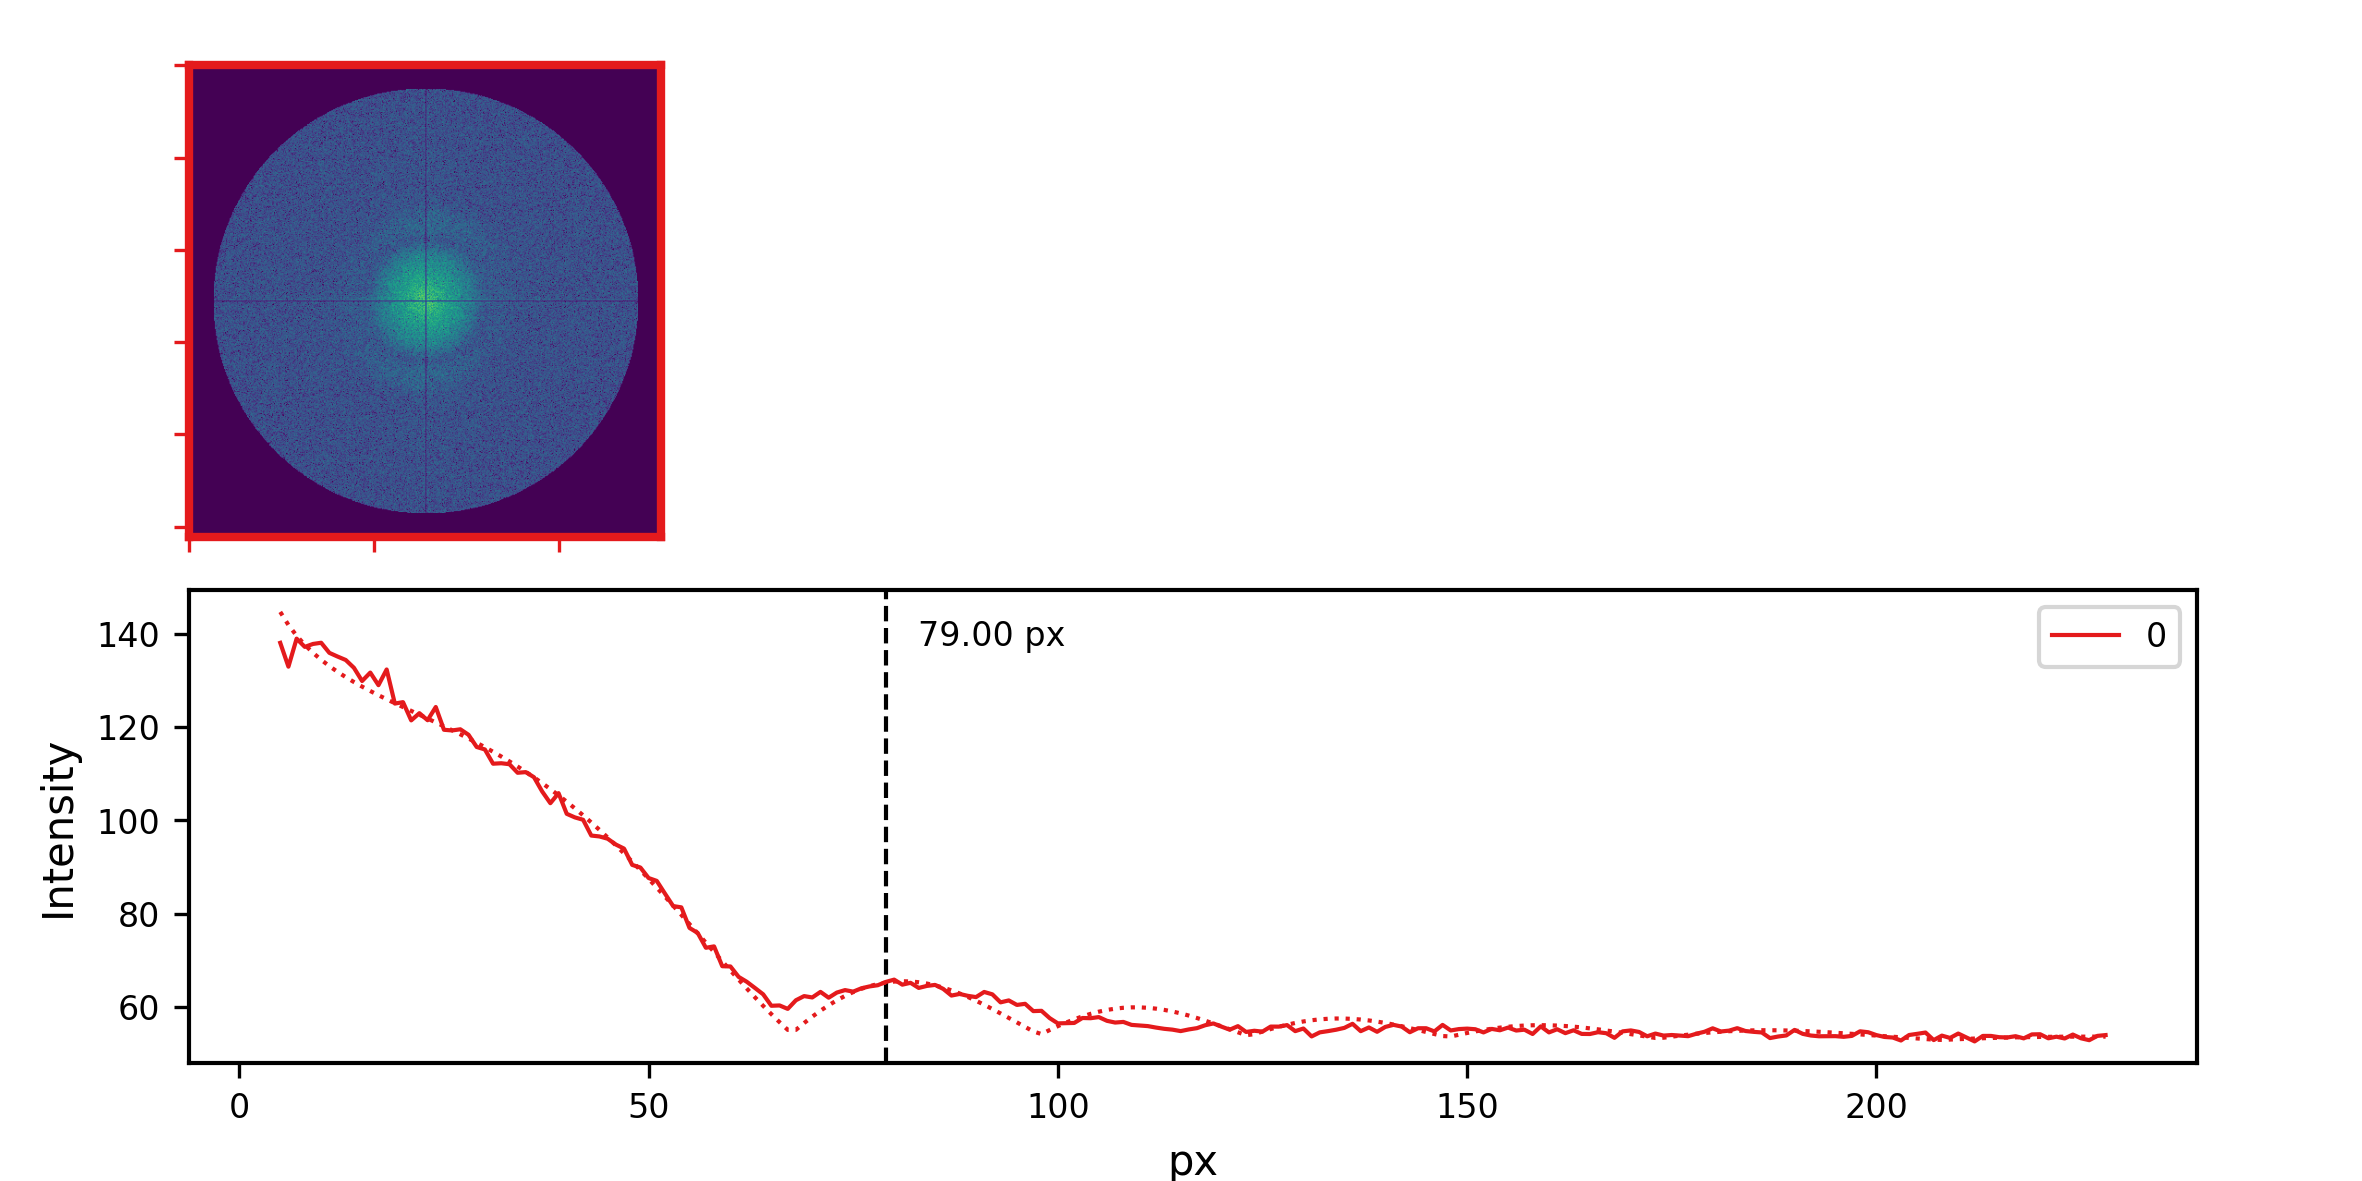
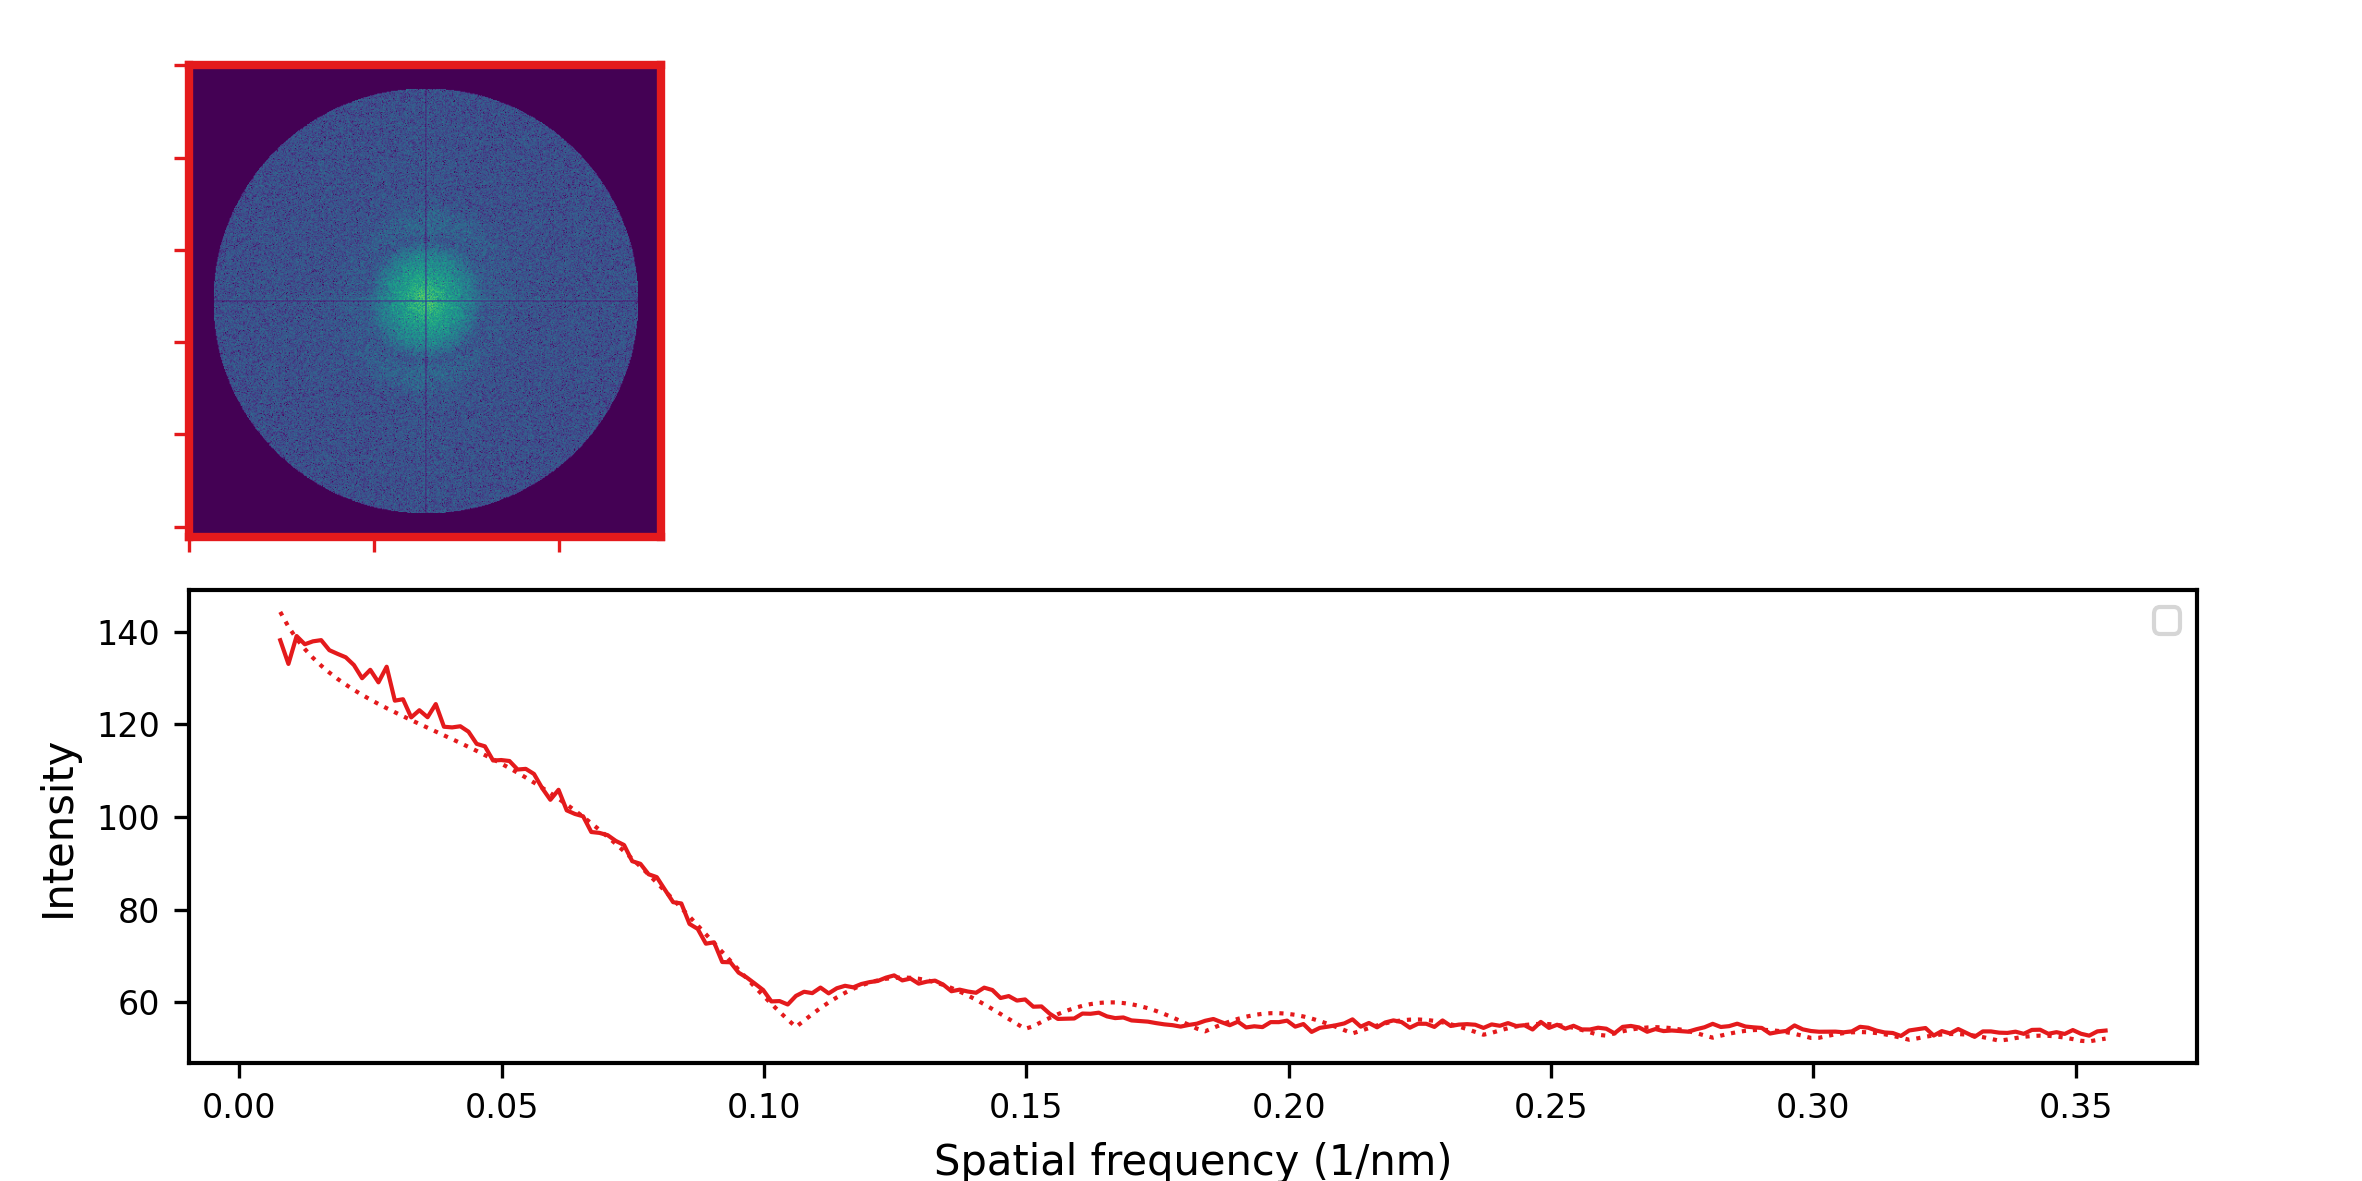
corrected f-space units, corrected guess vals to true params

diff --git a/fit.py b/fit.py
@@ -18,17 +18,8 @@ from scipy.optimize import curve_fit
 wdirname='data'     #working directory relative to script
 odirname='out'      #output directory relative to script
 
-#fitting
-pfprom=10       #prominence threshold for peak fit (default=10)
-widthguess=50   #initial guess for peak widths
-centrex=167 #beam centre position x 167 y 167 for iso2.tif
-centrey=167 #beam centre position 256/256 for carlos images
-
-#167-8x 175-6y
-
 #radial params
 centrecut=5     #minimum radius (centre mask)
-radcut=150      #maximum radius
 secwidth=180     #width of sector
 secmid=0        #centre of first sector
 secstep=180      #step between sectors
@@ -43,6 +34,64 @@ medfont = 10
 lgfont = 12
 lwidth = 1  #default linewidth
 bwidth = 1  #default border width
+
+
+#initial guesses for fit params
+pxpitch=1.252    #nm per pixel in real space
+pxdim=512
+"""
+https://www.dsprelated.com/showthread/comp.dsp/24594-1.php
+In each dimension, units are "cycles per aperture width". 
+
+If an image of a scene represents M=4 meters by N=3 meters of area, then any
+element (m,n) of the output FFT is m cycles per 4 meters by n cycles per 3
+meters.
+"""
+
+amp=0.06
+Cs=2.7E6    #spherical aberration coeff, nm (=2.6 mm)
+wl=0.00335 #wavelength (nm) 
+#wl=0.1 #wavelength (nm) 
+    #from accel voltage via de broglie eqn eg. https://www.ou.edu/research/electron/bmz5364/calc-kv.html
+dz=26500   #defocus value (depth of field)  #FIT THIS
+dm=2.2        #damping param
+dec=12.95   #decay param
+c=56        #constant
+cmax=80     #constant max
+
+bf=2        #bounding factor - defines fit limits
+
+
+""""
+MANUAL GUESS - defocus val is real fit param - effecitvely changes phase
+amp=0.1
+Cs=2.7E6    #spherical aberration coeff, nm (=2.6 mm)
+wl=0.00335 #wavelength (nm) 
+#wl=0.1 #wavelength (nm) 
+    #from accel voltage via de broglie eqn eg. https://www.ou.edu/research/electron/bmz5364/calc-kv.html
+dz=26000   #defocus value (depth of field)  #FIT THIS
+dm=2        #damping param
+dec=20   #decay param
+c=60        #constant
+cmax=80     #constant max
+
+bf=2        #bounding factor - defines fit limits
+
+#initial guesses for fit params
+pxpitch=1.25    #nm per pixel in real space
+
+amp=50000
+Cs=2.7E6    #spherical aberration coeff, nm (=2.6 mm)
+wl=0.00335 #wavelength (nm) 
+    #from accel voltage via de broglie eqn eg. https://www.ou.edu/research/electron/bmz5364/calc-kv.html
+dz=200   #defocus value (depth of field)
+dm=2        #damping param
+dec=0.005   #decay param
+c=50        #constant
+cmax=80     #constant max
+
+bf=2        #bounding factor - defines fit limits
+"""
 #-------------------------------------
 #FUNCTIONS
 #-----------------------------------
@@ -178,8 +227,6 @@ for ff in os.listdir(wdir):
         print(fname)
         j=0
 
-        
-
         #initialise plot and colourmaps per file
         steps=np.arange(0, 180, secstep)
         plt.rcParams["figure.figsize"] = [figx/2.54, figy/2.54]
@@ -195,21 +242,20 @@ for ff in os.listdir(wdir):
 
         #initialise image printouts
         
-    #   read in the image and assign an image centre (manual for now)
-        
-
+    #   read in the image
         imgmaster = cv2.imread(f, 0)
+        # get image centres, outer radius
         centrex, centrey = tuple(np.array(imgmaster.shape[1::-1]) / 2)
         centrex=int(centrex)
         centrey=int(centrey)
-        print(centrex, centrey)
         radcut=int(max(centrex, centrey)*0.9)
-        print(radcut)
         rpoints=radcut-centrecut-1
         
+        #initialise the profile array
         profiles=np.zeros((len(steps),rpoints,2))
         
-    #   iterate through each mask position
+    #   create series of radial masks
+    #       iterate through each mask position according to secwith and secstep
         for i in steps:
             print(steps)
             #duplicate the image
@@ -219,21 +265,21 @@ for ff in os.listdir(wdir):
         # initialise mask from sector coords
             th1=secmid-secwidth/2
             th2=secmid+secwidth/2
-        # apply the mask
+        # generate the paired masks
             mask = sector_mask(img.shape,(centrex,centrey),radcut,(th1,th2))
             mask += sector_mask(img.shape,(centrex,centrey),radcut,(th1+180,th2+180))
-
+        # add masks on centre xy column/rows
             mask[:,centrey] = False
             mask[centrex,:] = False
-                        
+        # apply mask               
             img[~mask] = 0
 
 
-#test
+
         #get the centre and centremask
             center, ccut = (centrex, centrey), centrecut
             
-            #   create the azimuthal profile (x,rad) and add to master matrix
+            #   create the azimuthal profile (x,rad) and add to master matrix for this image
             rad = radial_profile(img, center)
             x = np.arange(rad.shape[0])
             rad=rad[ccut:(radcut)]
@@ -256,35 +302,31 @@ for ff in os.listdir(wdir):
             c=75
             cmax=80
             """
-            #guesses - carlos3
-            amp=50000
-            Cs=2    #spherical aberration coeff, mm
-            wl=0.001 #wavelength (accel voltage)
-             #de broglie eqn eg. https://www.ou.edu/research/electron/bmz5364/calc-kv.html
-            dz=0.2   #defocus value (depth of field)
-            dm=2
-            dec=0.005
-            c=50
-            cmax=80
+
 
      #       https://stackoverflow.com/questions/22895794/scipys-optimize-curve-fit-limits
-     #      bounded doesn't work - think only works for two params
-     #      try lmfit in so link
-            k=x
-           # k=1/(x/1000)    #spatial frequency in nm ?
-            bf=2
+     #      FITTING HERE
+     #--------------------------------------------------------
+           # k=x
+            k=x/(pxpitch*pxdim)  
+            
             guess=np.array([amp, Cs, wl, dz, dm, dec, c])
-
+            insin=(guess[1]*guess[2]**3*k**4 - 2*guess[3]*guess[2]*k**2)
+            print(insin)
             bounded=([amp/bf, Cs/bf*1.9, wl/bf, dz/bf, dm/bf, dec/bf, c/bf], [amp*bf, Cs*bf/1.9, wl*bf, dz*bf, dm*bf, dec*bf, cmax])
+            print(amp, Cs, wl, dz, dm, dec, c)
+            print(amp/bf, Cs/bf*1.9, wl/bf, dz/bf, dm/bf, dec/bf, c/bf)
             #popt, pcov = curve_fit(ctfmodel, k, rad, p0=guess, ftol=0.00001)
             popt, pcov = curve_fit(ctfmodel, k, rad, p0=guess, bounds=bounded)
+     #--------------------------------------------------------
+
             print("params: amp, Cs, wl, dz, dm, dec, c")
             print("guess",*guess)
             print("opt",*popt)
 
-            ctf=ctfmodel(k, *popt)
-        #   ctf=ctfmodel(k, *guess)
-            insin=(popt[1]*popt[2]**3*k**4 - 2*popt[3]*popt[2]*k**2)
+        #    ctf=ctfmodel(k, *popt)
+            ctf=ctfmodel(k, *guess)
+           # insin=(popt[1]*popt[2]**3*k**4 - 2*popt[3]*popt[2]*k**2)
 
             order2nd=find_nearest(insin, value=-3.0)
 
@@ -299,15 +341,19 @@ for ff in os.listdir(wdir):
             axrad.set_yticklabels([])
             axrad.tick_params(color=colorVal, labelcolor=colorVal)
             axrad.imshow(img)
-            axgph.axvline(x=order2nd, color="black", linestyle='--')
-            axgph.plot(k, rad, label=secmid, color=colorVal)
+            #axgph.axvline(x=order2nd, color="black", linestyle='--')
+
+            #axgph.plot(k, np.sin((np.pi/2)*20*insin), 
+        #    axgph.plot(k, insin*20, 
+            axgph.plot(k, rad, 
+                color=colorVal)
             axgph.plot(k, ctf, 
-                    ':',
-                    color=colorVal)
-            axgph.text(order2nd*1.05,0.95*max(ctf),
-                ("%.2f px" % order2nd),
-                horizontalalignment='left',
-                color="black")
+                ':',
+                color=colorVal)
+           # axgph.text(order2nd*1.05,0.95*max(ctf),
+           #     ("%.2f px" % order2nd),
+           #     horizontalalignment='left',
+           #     color="black")
      #       axg2=axgph.twinx()
         #    axg2.plot(k, pinsin, 
        #     axg2.plot(k, insin, 
@@ -324,7 +370,7 @@ for ff in os.listdir(wdir):
     #adjust labels, legends etc
 
             axgph.set_ylabel('Intensity')
-            axgph.set_xlabel('px')
+            axgph.set_xlabel('Spatial frequency (1/nm)')
 #            axgph.set_xlim(0,5)
             axgph.legend(loc="upper right")
             j=j+1
